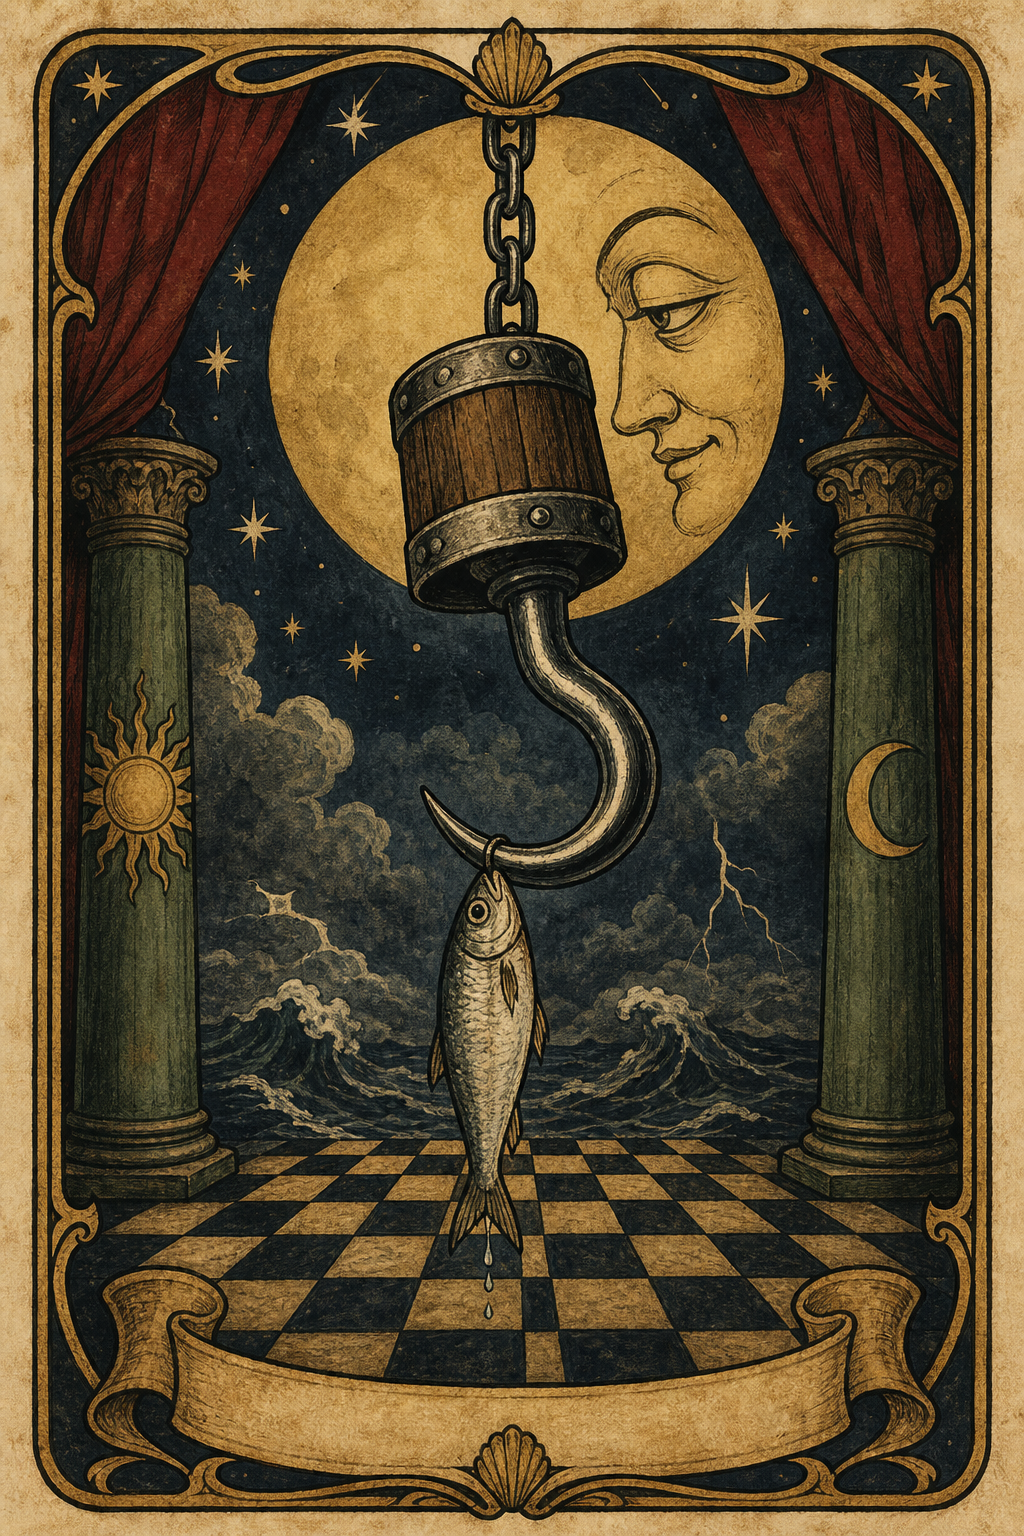
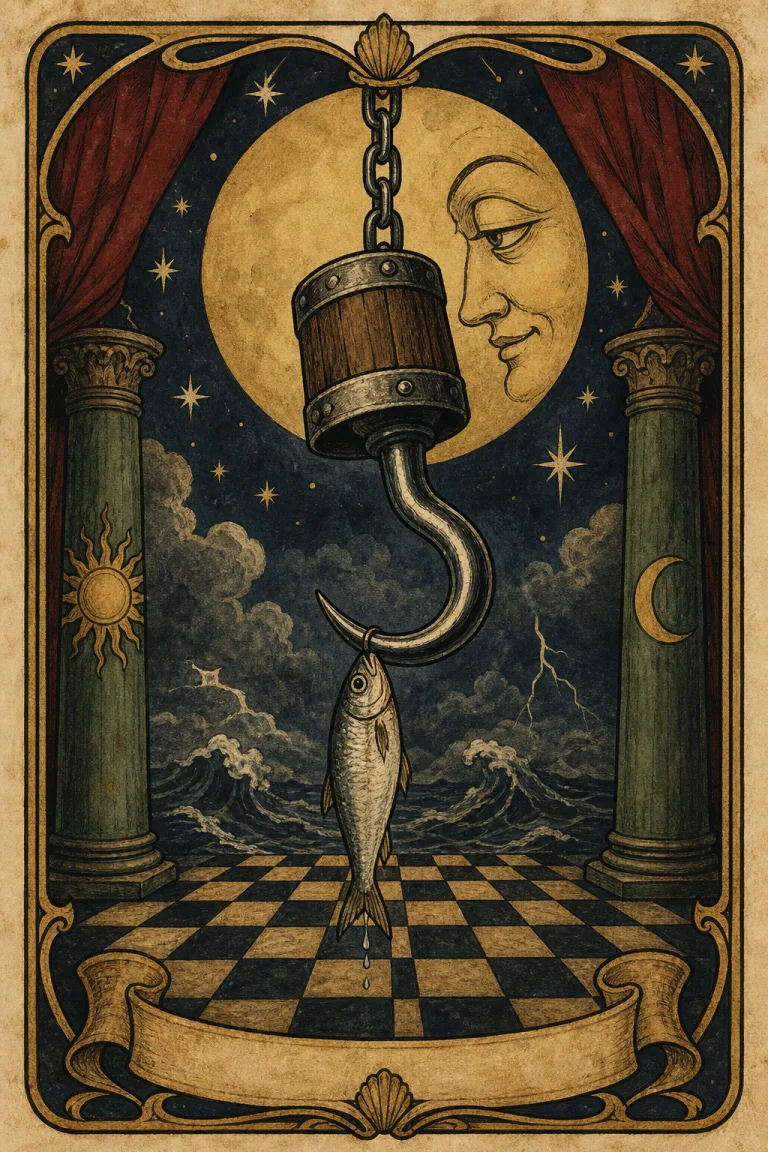
카드를 폰 크기로 줄여 저장 (2.4MB → ~200KB)
API 가 주는 webp 는 1024x1536 무손실이라 장당 2MB 가 넘는다. 110장이면
260MB 가 되고 폰에서 카드 3장 띄울 때마다 7MB 를 받게 된다.

- 생성기: cwebp 가 있으면 저장 직후 768px·q82 로 축소해 제자리에 덮어쓴다
  (--max-width, --webp-quality). 없으면 경고만 내고 원본을 둔다.
  webp/jpeg 요청에는 output_compression=85 를 붙인다.
- 워크플로: 러너에 webp 패키지 설치 단계 추가.
- 이미 만든 3장(5, 42, 83)도 같은 설정으로 축소.

Claude-Session: https://claude.ai/code/session_01YarCKduzENamUucZM8LtZo

diff --git a/README.md b/README.md
@@ -54,9 +54,16 @@ node tools/gen-peg-images.mjs [옵션]
   --quality <등급>   low | medium | high  (기본 medium)
   --format <형식>    webp | png  (기본 webp)
   --concurrency <n>  동시 요청 수 (기본 3)
+  --max-width <px>   저장 전에 cwebp 로 축소 (기본 768, 0이면 원본 유지)
+  --webp-quality <q> 축소할 때 webp 품질 (기본 82)
   --dry-run          호출 없이 최종 프롬프트만 출력
   --list-missing     아직 없는 키만 나열
 ```
+
+API 가 주는 webp 는 1024×1536 무손실이라 **장당 2MB 가 넘는다.** 폰에서는 카드 한 장이
+600px 을 넘지 않으니 `cwebp` 가 있으면 768px·q82 로 줄여 **~200KB** 로 저장한다 (110장 ≈ 22MB).
+Actions 러너에는 자동으로 깔리고, 로컬은 `brew install webp` / `sudo apt install webp` /
+`winget install Google.libwebp`. 없으면 경고만 내고 API 쪽 압축만 적용된 채 저장한다.
 
 - 이미 만들어진 파일은 **건너뛴다.** 중간에 끊겨도 그냥 다시 실행하면 이어서 만든다.
 - 429/5xx 는 지수 백오프로 재시도하고, 계정이 지원하지 않는 파라미터는 빼고 다시 던진다.
